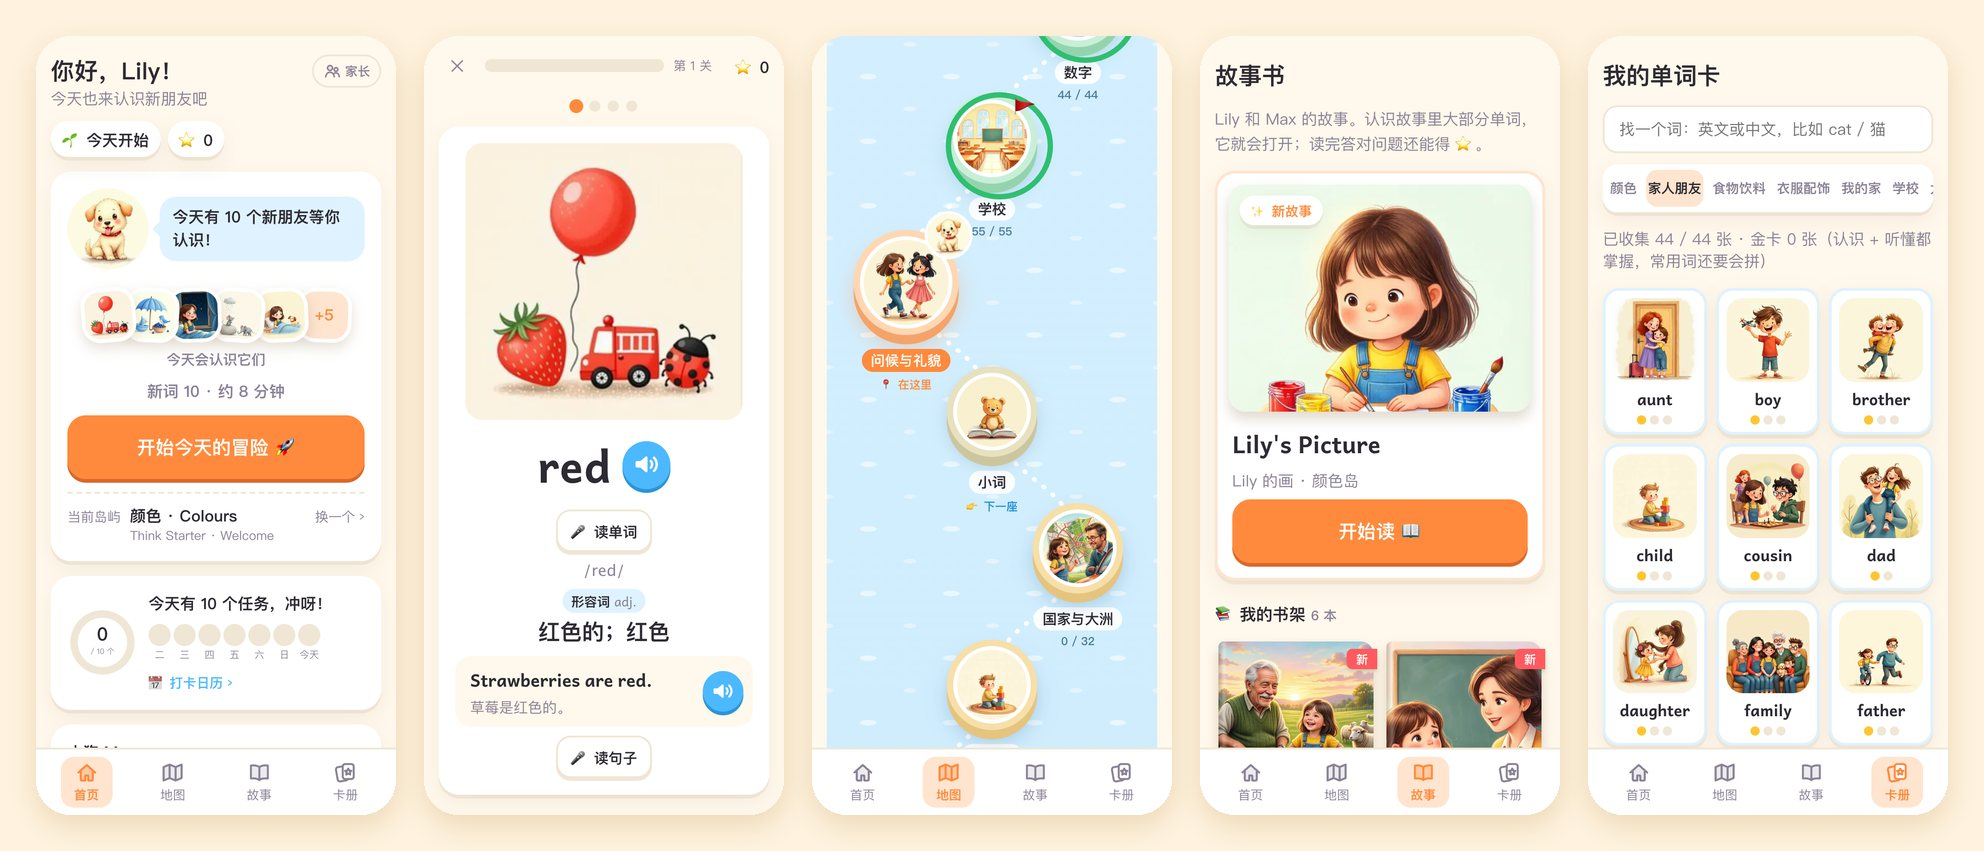
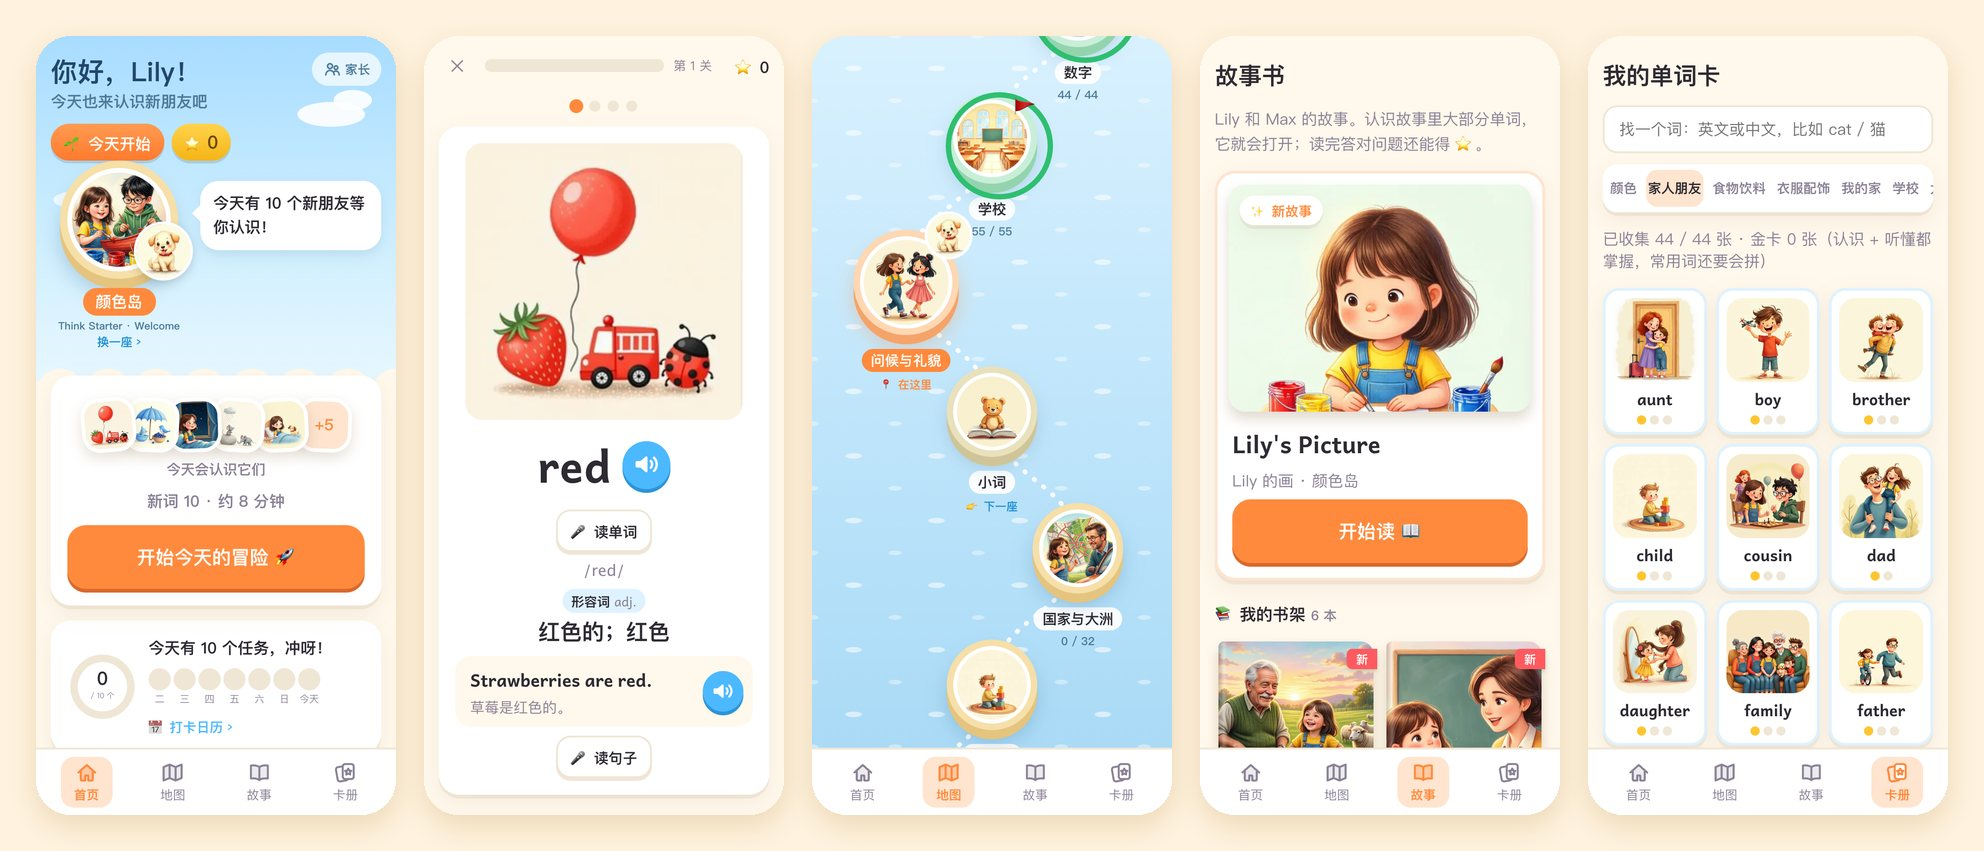
Home: a little sky scene with the child's island and Max, paw-print stamps, and what Max grows into next
- Top of the home screen: sky and clouds, streak and star badges, the current island as on the map (tap for the map) with Max beside it saying the day's plan
- The start button breathes gently (still with reduced motion); study days are stamped with paw prints, on the home screen and the finish screen
- Max's card shows him now and his next look, with the stars still to go
- The home card no longer shares the .grow class with the sticker page's title
- README screenshots and the learning-model notes show the new home

Changed region(s): [[0.0, 0.0306, 0.2188, 0.8555], [0.4062, 0.0611, 0.5938, 0.886]]

diff --git a/src/pages/Home.tsx b/src/pages/Home.tsx
@@ -5,9 +5,12 @@ import { dayTasks, extraCap, todayPlan } from "../session/today";
 import { dayKey, planOptions, streak, type Progress } from "../store/progress";
 import type { Library } from "../lib/data";
 import type { Topic, Word } from "../types";
-import { Max, type Pose } from "../ui/Max";
+import type { Pose } from "../ui/Max";
 import { Icon } from "../ui/Icons";
+import { islandCover, islandEmoji } from "../lib/islands";
 import { Picture } from "../ui/Picture";
+
+const base = import.meta.env.BASE_URL;
 
 /** Max collects explorer gear as the child earns stars: always the same puppy, so he stays "theirs". */
 export function petStage(stars: number): { pose: Pose; name: string; next: number | null } {
@@ -68,33 +71,45 @@ export function Home(props: {
   const moreOk = library.all.some((w) => !progress.words[w.id]) && newToday < extraCap(opts.newPerDay);
   // the day is bounded by word counts, not by minutes: count today's tasks, done and still waiting (#2)
   const tasks = dayTasks(plan, opts);
+  const cover = topic && islandCover(library, topic);
+  /** What Max grows into next, shown beside him so the child sees what the stars are for. */
+  const after = pet.next ? petStage(pet.next) : null;
 
   return (
     <div className="page home">
-      <header className="home-head">
-        <div className="home-hi">
+      <section className="scene">
+        <div className="scene-top">
           <div>
             <div className="hello">你好，{progress.profile?.name ?? "小探险家"}！</div>
-            <div className="muted">今天也来认识新朋友吧</div>
+            <div className="scene-sub">今天也来认识新朋友吧</div>
           </div>
           <button className="parent-entry" onClick={onParent} aria-label="家长中心">
             <Icon name="parent" size={20} />
             <span>家长</span>
           </button>
         </div>
-        <div className="chips">
-          <span className="chip">{days > 0 ? `🔥 连续 ${days} 天` : "🌱 今天开始"}</span>
-          <span className="chip">⭐ {progress.stars}</span>
+        <div className="scene-badges">
+          <span className="badge badge-fire">{days > 0 ? <>🔥 连续 <b>{days}</b> 天</> : <>🌱 今天开始</>}</span>
+          <span className="badge badge-star">
+            ⭐ <b>{progress.stars}</b>
+          </span>
         </div>
-      </header>
+        <div className="scene-stage">
+          <button className="scene-island" onClick={onMap} aria-label={`现在在${topic?.zh ?? ""}岛，点一下去地图`}>
+            <span className="scene-disc">
+              {cover?.media.img ? <img src={base + cover.media.img} alt="" draggable={false} /> : <span className="isle-emoji">{topic ? islandEmoji(topic) : "🏝"}</span>}
+            </span>
+            <img className="scene-max" src={`${base}media/ui/max-${hasWork ? pet.pose : "sleep"}.webp`} alt="" draggable={false} />
+            <span className="scene-name">{topic ? `${topic.zh}岛` : "…"}</span>
+            {unit && <span className="scene-unit">{unitLabel(unit)}</span>}
+            <span className="scene-change">换一座 ›</span>
+          </button>
+          <div className="scene-bubble">{maxLine(progress.profile?.name ?? "小探险家", plan.reviews.length, plan.newWords.length, catchUp)}</div>
+        </div>
+      </section>
 
       <section className="card hero">
         {finished && <p className="notice">🎉 {finished.zh}岛的单词都认识啦！接下来去{topic?.zh ?? "下一座"}岛。</p>}
-        <Max
-          pose={hasWork ? pet.pose : "sleep"}
-          size="md"
-          say={maxLine(progress.profile?.name ?? "小探险家", plan.reviews.length, plan.newWords.length, catchUp)}
-        />
         {hasWork ? (
           <>
             <Faces library={library} ids={[...plan.newWords, ...plan.reviews.map((t) => t.wordId)]} fresh={plan.newWords.length > 0} />
@@ -106,7 +121,7 @@ export function Home(props: {
             {catchUp && (
               <p className="notice">欢迎回来！先把以前的单词找回来，新单词稍后再学（还有 {plan.backlog} 个排队中）。</p>
             )}
-            <button className="btn btn-primary btn-huge" onClick={() => onStart()}>
+            <button className="btn btn-primary btn-huge btn-go" onClick={() => onStart()}>
               开始今天的冒险 🚀
             </button>
           </>
@@ -130,14 +145,6 @@ export function Home(props: {
             )}
           </div>
         )}
-        <button className="hero-island" onClick={onMap}>
-          <span className="muted small">当前岛屿</span>
-          <b>
-            {topic ? `${topic.zh} · ${topic.en}` : "加载中…"}
-            {unit && <span className="today-unit">{unitLabel(unit)}</span>}
-          </b>
-          <span className="muted small">换一个 ›</span>
-        </button>
         {left > 0 && (
           <p className="muted small goal-line">
             🎯 离目标还有 {left} 天 · 已认识 {met} / {library.all.length} 个词
@@ -169,22 +176,33 @@ export function Home(props: {
         </button>
       )}
 
-      <section className="card grow">
-        <div className="grow-pet">
-          <b>{pet.name}</b>
-          {pet.next ? (
-            <>
-              <div className="bar bar-thin">
-                <div className="bar-fill" style={{ width: `${Math.min(100, (progress.stars / pet.next) * 100)}%` }} />
-              </div>
-              <span className="muted small">再得 {pet.next - progress.stars} 颗 ⭐，Max 就能升级</span>
-            </>
-          ) : (
-            <span className="muted small">Max 已经是最厉害的狗狗啦！</span>
+      <section className="card grow-card">
+        <div className="grow-row">
+          <img className="grow-max" src={`${base}media/ui/max-${pet.pose}.webp`} alt="" draggable={false} />
+          <div className="grow-mid">
+            <b>{pet.name}</b>
+            {after ? (
+              <>
+                <div className="bar bar-thin">
+                  <div className="bar-fill grow-fill" style={{ width: `${Math.min(100, (progress.stars / pet.next!) * 100)}%` }} />
+                </div>
+                <span className="muted small">
+                  再得 {pet.next! - progress.stars} 颗 ⭐ 就变成{after.name}
+                </span>
+              </>
+            ) : (
+              <span className="muted small">Max 已经是最厉害的狗狗啦！</span>
+            )}
+          </div>
+          {after && (
+            <span className="grow-next">
+              <img src={`${base}media/ui/max-${after.pose}.webp`} alt="" draggable={false} />
+              <small>下一个样子</small>
+            </span>
           )}
         </div>
         <button className="sticker-entry" onClick={onStickers}>
-          <span>🏅 贴纸</span>
+          <span>🏅 我的贴纸</span>
           <b>
             {stickers[0]} / {stickers[1]}
           </b>
@@ -243,7 +261,7 @@ function TodayRing({ progress, now, done, left, onCalendar }: { progress: Progre
         <button className="week-stamps" onClick={onCalendar} aria-label="打开打卡日历">
           {week.map((d, i) => (
             <span key={i} className={`stamp ${d.on ? "stamp-on" : ""}`}>
-              <i>{d.on ? "✓" : ""}</i>
+              <i>{d.on ? "🐾" : ""}</i>
               {d.label}
             </span>
           ))}

diff --git a/src/styles.css b/src/styles.css
@@ -148,11 +148,52 @@ h3 {
 .nav-on { color: var(--primary); background: var(--primary-soft); font-weight: 700; }
 
 /* home */
-.home-head { display: flex; justify-content: space-between; align-items: center; gap: 12px; margin-bottom: 16px; flex-wrap: wrap; }
 .hello { font-size: 1.5rem; font-weight: 800; }
-.home-hi { width: 100%; display: flex; justify-content: space-between; align-items: flex-start; gap: 12px; }
 .parent-entry { flex: none; display: flex; align-items: center; gap: 4px; padding: 6px 10px; border-radius: 99px; background: none; border: 2px solid var(--line); color: var(--muted); font: inherit; font-size: 0.8rem; font-weight: 700; }
-.hero { display: flex; flex-direction: column; gap: 14px; }
+/* home: a little scene on top — sky, the island the child is on, Max talking */
+.scene {
+  position: relative; overflow: hidden; margin: calc(-20px - env(safe-area-inset-top)) -16px 0; padding: calc(18px + env(safe-area-inset-top)) 16px 46px;
+  background:
+    radial-gradient(ellipse 60px 22px at 82% 22%, rgba(255, 255, 255, 0.9) 60%, transparent 62%),
+    radial-gradient(ellipse 34px 18px at 88% 18%, rgba(255, 255, 255, 0.9) 60%, transparent 62%),
+    radial-gradient(ellipse 46px 16px at 12% 46%, rgba(255, 255, 255, 0.75) 60%, transparent 62%),
+    linear-gradient(180deg, #a8dcff 0%, #cdeeff 55%, #e9f8ff 100%);
+}
+/* the sky ends in a row of clouds that melt into the page */
+.scene::after { content: ""; position: absolute; left: 0; right: 0; bottom: -1px; height: 30px;
+  background: radial-gradient(circle at 50% 100%, var(--bg) 26px, transparent 27px) 0 0 / 52px 30px repeat-x, radial-gradient(circle at 50% 100%, var(--bg) 18px, transparent 19px) 26px 6px / 52px 30px repeat-x; }
+@media (min-width: 752px) { .scene { border-radius: 0 0 32px 32px; } }
+.scene-top { display: flex; justify-content: space-between; align-items: flex-start; gap: 12px; }
+.scene .hello { font-size: 1.7rem; font-weight: 800; color: #20476a; }
+.scene-sub { color: #4d7a99; font-weight: 600; }
+.scene .parent-entry { background: rgba(255, 255, 255, 0.7); border-color: transparent; color: #4d7a99; }
+.scene-badges { display: flex; gap: 8px; margin: 12px 0 6px; flex-wrap: wrap; }
+.badge { display: inline-flex; align-items: center; gap: 4px; padding: 6px 14px; border-radius: 99px; font-weight: 800; color: #fff; box-shadow: 0 3px 0 rgba(0, 0, 0, 0.12); }
+.badge b { font-size: 1.15rem; }
+.badge-fire { background: linear-gradient(180deg, #ff9b52, #ff7a2e); }
+.badge-star { background: linear-gradient(180deg, #ffd34d, #f5b416); color: #6b4a00; }
+.scene-stage { position: relative; z-index: 1; display: flex; align-items: center; gap: 14px; margin-top: 8px; }
+.scene-island { position: relative; flex: none; width: 148px; display: flex; flex-direction: column; align-items: center; background: none; border: 0; padding: 0; font: inherit; color: inherit; }
+.scene-disc { width: 112px; height: 112px; border-radius: 50%; overflow: hidden; display: grid; place-items: center; background: #fff; border: 5px solid #fff; box-shadow: 0 0 0 8px #f6dfa8, 0 11px 0 8px #e5c47f, 0 18px 22px 8px rgba(40, 90, 130, 0.25); }
+.scene-disc img { width: 100%; height: 100%; object-fit: cover; display: block; }
+.scene-max { position: absolute; right: -6px; top: 58px; width: 64px; height: 64px; border-radius: 50%; border: 3px solid #fff; object-fit: cover; background: var(--primary-soft); box-shadow: 0 4px 10px rgba(0, 0, 0, 0.15); animation: bob 2.6s ease-in-out infinite; }
+.scene-name { margin-top: 18px; background: var(--primary); color: #fff; font-weight: 800; padding: 3px 14px; border-radius: 99px; }
+.scene-unit { margin-top: 3px; font-size: 0.66rem; font-weight: 700; color: #4d7a99; white-space: nowrap; }
+.scene-change { font-size: 0.75rem; font-weight: 800; color: #1f8fd6; }
+.scene-bubble { position: relative; flex: 1; align-self: flex-start; margin-top: 14px; background: #fff; border-radius: 20px; padding: 12px 14px; font-weight: 700; line-height: 1.5; box-shadow: 0 6px 14px rgba(40, 90, 130, 0.12); }
+.scene-bubble::before { content: ""; position: absolute; left: -9px; top: 26px; border: 9px solid transparent; border-left: 0; border-right-color: #fff; }
+.hero { display: flex; flex-direction: column; gap: 14px; margin-top: -18px; position: relative; z-index: 1; }
+.btn-go { animation: nudge 2.4s ease-in-out infinite; }
+@keyframes nudge { 0%, 70%, 100% { transform: scale(1); } 80% { transform: scale(1.035); } 90% { transform: scale(0.99); } }
+.grow-card { display: flex; flex-direction: column; gap: 12px; }
+.grow-row { display: flex; align-items: center; gap: 12px; }
+.grow-max { width: 64px; height: 64px; border-radius: 50%; object-fit: cover; background: var(--primary-soft); flex: none; }
+.grow-mid { flex: 1; min-width: 0; display: flex; flex-direction: column; }
+.grow-mid .bar { flex: none; }
+.grow-fill { background: linear-gradient(90deg, #ffd34d, #f5b416); }
+.grow-next { flex: none; display: flex; flex-direction: column; align-items: center; gap: 2px; }
+.grow-next img { width: 52px; height: 52px; border-radius: 50%; object-fit: cover; border: 3px dashed var(--gold); padding: 2px; background: #fff; }
+.grow-next small { font-size: 0.68rem; color: var(--muted); font-weight: 700; }
 .hero > .notice { margin: 0; }
 .hero-meta { margin: -4px 0 0; text-align: center; color: var(--muted); font-weight: 700; }
 .hero-done { padding: 4px 0; }
@@ -165,10 +206,6 @@ h3 {
 .face .picture-sm { width: 100%; max-width: none; border-radius: 16px; }
 .face-more { display: grid; place-items: center; height: min(96px, 15vw); box-sizing: border-box; font-weight: 800; color: var(--primary); background: var(--primary-soft); rotate: 2deg; }
 .faces-label { font-size: 0.9rem; color: var(--muted); font-weight: 700; }
-.grow { display: flex; align-items: center; gap: 14px; flex-wrap: wrap; }
-.grow-pet { flex: 1 1 180px; display: flex; flex-direction: column; }
-.grow-pet .bar { flex: none; }
-.grow .sticker-entry { flex: 0 0 auto; width: auto; }
 @keyframes bob { 50% { transform: translateY(-6px) rotate(-4deg); } }
 .today-tasks, .finish-stats { display: grid; grid-template-columns: repeat(3, 1fr); text-align: center; margin-bottom: 14px; }
 .today-tasks b, .finish-stats b { display: block; font-size: 1.8rem; color: var(--primary); }
@@ -614,7 +651,7 @@ h3 {
 .week-stamps { display: flex; gap: 6px; flex-wrap: wrap; }
 .stamp { display: flex; flex-direction: column; align-items: center; gap: 2px; font-size: 0.72rem; color: var(--muted); }
 .stamp i { width: 30px; height: 30px; border-radius: 50%; display: grid; place-items: center; background: var(--line); font-style: normal; color: #fff; font-weight: 800; }
-.stamp-on i { background: var(--primary); }
+.stamp-on i { background: var(--primary-soft); box-shadow: inset 0 0 0 2px #ffc79c; font-size: 1rem; }
 /* words met on other islands stay tappable, without the dotted line: only this island's and new words stand out */
 .story-word-plain { border-bottom-color: transparent; }
 /* read aloud */

diff --git a/src/pages/Finish.tsx b/src/pages/Finish.tsx
@@ -127,7 +127,7 @@ export function Finish(props: {
           <div className="week-stamps">
             {week.map((d, i) => (
               <span key={i} className={`stamp ${d.on ? "stamp-on" : ""} ${d.today ? "stamp-today" : ""}`}>
-                <i>{d.on ? "✓" : ""}</i>
+                <i>{d.on ? "🐾" : ""}</i>
                 {d.label}
               </span>
             ))}

diff --git a/docs/learning-model.md b/docs/learning-model.md
@@ -43,7 +43,7 @@
 - **打卡日历**：首页本周打卡可以点开月历，学过的日子盖章（颜色深浅按当天题数），显示本月学习天数、现在连续和最长连续天数，点某天看当天答题、新词和星星。
 - **学完的庆祝**：当天任务做完时，今天认识的新卡一张张飞进卡册（只复习的日子换成找回的老朋友），本周打卡条给今天盖章并显示连续天数，星星够了 Max 当场升级；点一下屏幕可跳过，系统设了“减少动画”时直接显示结果。
 - **分关**：每 10 题一关，关与关之间有小庆祝页（本关星星、还剩几关），可以“再来一关”或“今天先到这里”——答过的题已实时保存。
-- **首页**：底栏只有首页、地图、故事、卡册四栏；家长中心不常用，入口是首页右上角的“家长”小按钮（进入前要答一道乘法题）。今日进度环按**任务数**计（新词 + 排到今天的复习，来自每天的数量限制），不是按分钟：当天的词学完环就满，不会再说“还差多少学习时间”（#2）；已用时间只作为一句参考显示。旁边是本周打卡。首页主卡片里摆着今天要学的词的插画（“今天会认识它们”），学习前就知道今天要认识谁。
+- **首页**：底栏只有首页、地图、故事、卡册四栏；家长中心不常用，入口是首页右上角的“家长”小按钮（进入前要答一道乘法题）。今日进度环按**任务数**计（新词 + 排到今天的复习，来自每天的数量限制），不是按分钟：当天的词学完环就满，不会再说“还差多少学习时间”（#2）；已用时间只作为一句参考显示。旁边是本周打卡。首页顶部是一个小场景：蓝天白云、连续天数和星星徽章、当前岛的插画小岛（点它去地图），Max 站在岛边说今天要做什么；下面的主卡片摆着今天要学的词的插画（“今天会认识它们”）和开始按钮。打卡日用小狗爪印 🐾 盖章；Max 成长卡并排显示现在的 Max 和“下一个样子”，以及还差几颗星。
 - **故事**：只给本岛的词和还没学过的词加下划线（其余学过的词也能点开看卡片）；“从头读到尾”连续朗读，自动翻页。
 - **答题记录**：每次计分的作答都记下时间、词、技能、评分和用时（最多 4 万条），用来换算孩子的答题速度，以后也可以用 FSRS 优化器为孩子拟合专属参数。月度小测答错毕业词时记的那一次“忘了”单独标记（类型 3），不算进复习回忆率、答题速度和当天题数。
 - **自动评分**：答错 → Again；答对但慢、用提示或拼错一次 → Hard；答对 → Good；拼写又快又准 → Easy。“慢”的阈值按年龄放宽。孩子不需要自己给自己打分。
